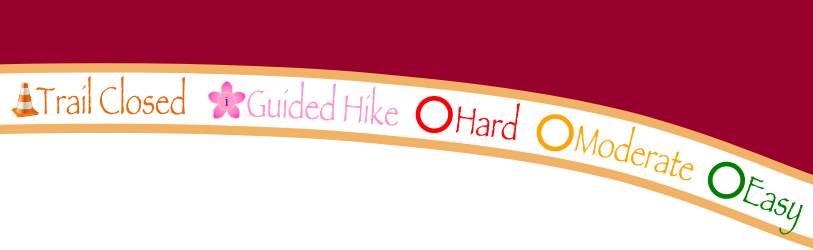
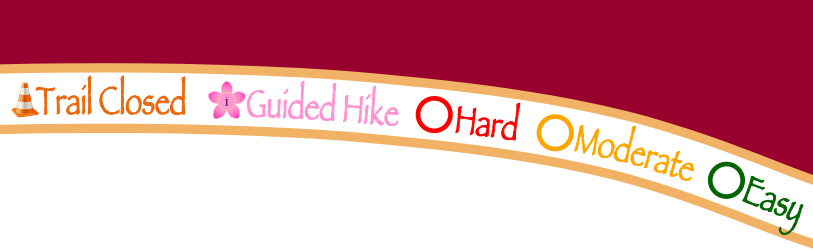
Darkened green for gray scale visability

diff --git a/client/app/components/SaveTrailModal.tsx b/client/app/components/SaveTrailModal.tsx
@@ -119,8 +119,8 @@ const SaveTrailModal = ({ modalVisible, submitTrail }: SaveTrailModalProps) => {
                 data={[
                   {
                     label: "Easy",
-                    colorSelected: "green",
-                    colorNotSelected: "lightgreen",
+                    colorSelected: "#004C00",
+                    colorNotSelected: "green",
                     textColorSelected: "black",
                     value: "easy",
                   },

diff --git a/client/app/utils/mapFunctions.ts b/client/app/utils/mapFunctions.ts
@@ -19,7 +19,7 @@ export const getColor = (difficulty?: string): string => {
     case "moderate":
       return "orange";
     case "easy":
-      return "green";
+      return "#004C00";
     default:
       return "blue";
   }
